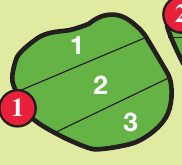
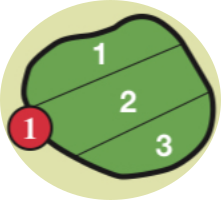
Add new hole images and update HoleLocation component

diff --git a/src/components/HoleLocation.vue b/src/components/HoleLocation.vue
@@ -1,12 +1,23 @@
 <script setup>
-const imageUrl = new URL('/src/assets/img/Windyke_East_1.png', import.meta.url)
+import { useCourseStore } from '@/stores/courseInfo'
+import { computed} from 'vue'
+
+  const courseStore = useCourseStore()
+
+  const imageUrl = computed(() => {
+    let prefix = courseStore.courseName.replace(/\s/g, '_')
+    let imgFullName = `${prefix}_${courseStore.holeNumber}.png`
+    return new URL(`/src/assets/img/${imgFullName}`, import.meta.url)
+  })
+
+// const imageUrl = new URL('/src/assets/img/Windyke_East_2.png', import.meta.url)
 </script>
 
 
 <template>
   <section>
     <div class="greeninfo">
-      <img class="greenimg" :src="`${imageUrl}`" alt="Windyke East Hole 1" />
+      <img class="greenimg" :src="`${imageUrl}`" :alt="`${courseStore.courseName } ${courseStore.holeNumber}`" />
       <span>Today's Hole location: <strong>2</strong></span>
     </div>
   </section>
@@ -22,5 +33,7 @@ const imageUrl = new URL('/src/assets/img/Windyke_East_1.png', import.meta.url)
 .greenimg {
   width: 90px;
   height: 90px;
+  background-color: #dee1aa;
+  border-radius: 25%;
 }
 </style>

diff --git a/src/stores/courseInfo.js b/src/stores/courseInfo.js
@@ -21,12 +21,10 @@ export const useCourseStore = defineStore('courseInfo', () => {
   })
 
   function nextHole() {
-    // console.log("Incrementign hole number")
     if (holeNumber.value < 18) holeNumber.value++
   }
 
   function prevHole() {
-    // console.log("Deccrementign hole number")
     if (holeNumber.value > 1) holeNumber.value--
   }
 
